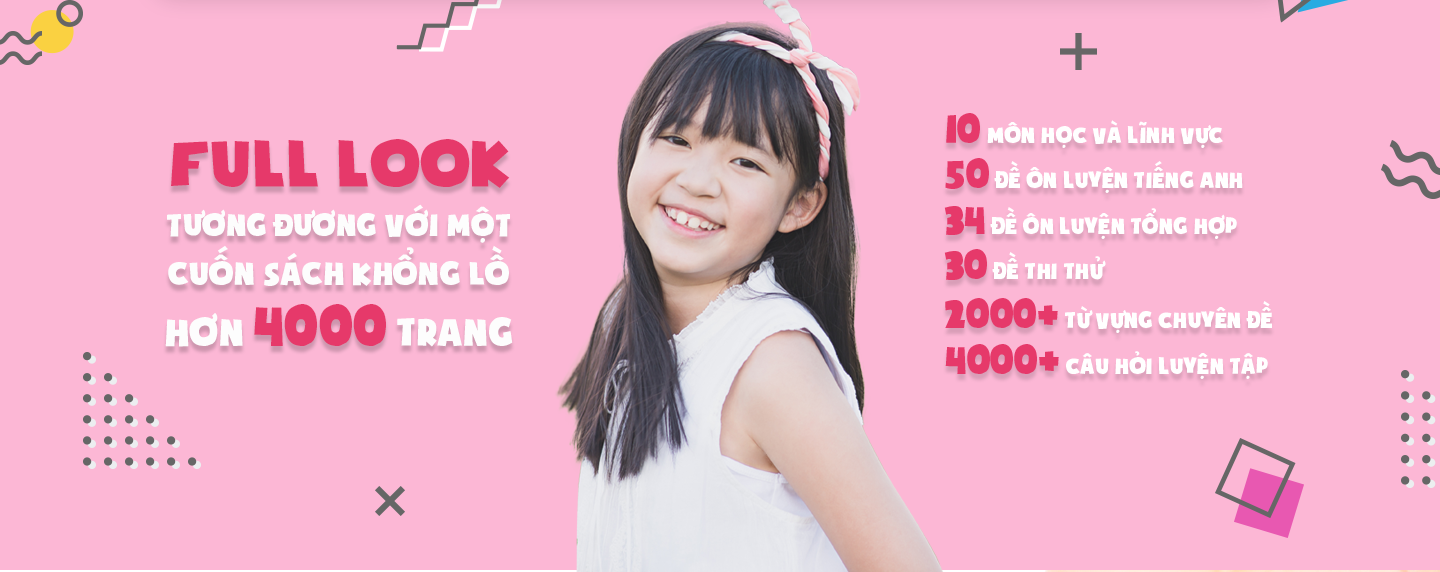
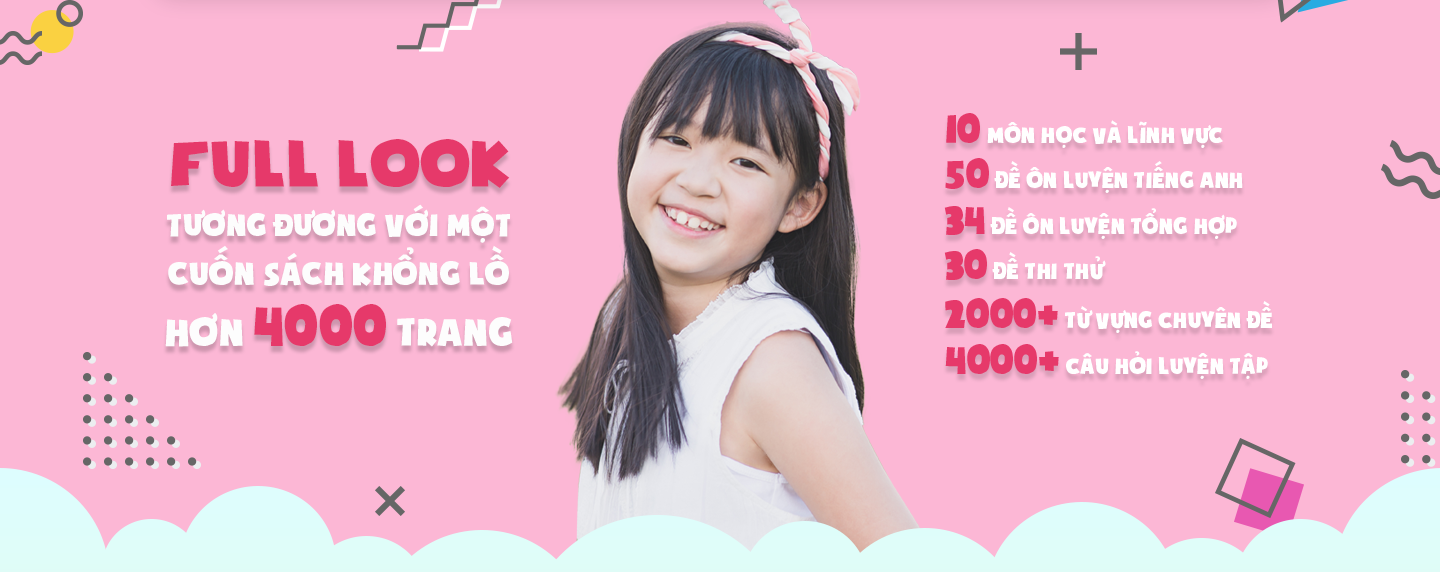
huunv

Changed region(s): [[0.5312, 0.8024, 1.0, 1.0], [0.0, 0.8024, 0.5, 1.0]]

diff --git a/assets/css/style.css b/assets/css/style.css
@@ -315,6 +315,7 @@ input[type=radio], input[type=checkbox]{
 .btmn2{top: 28%; right: 40%;}
 .btdk{bottom: 20%; right: 25.5%;}
 .btdk2{bottom: 15%; right: 10%;}
+.bg-cloud{    background: #e0fcf5;}
 
 @media (min-width: 768px) {
 	.navbar-brand{

diff --git a/common/slider.php b/common/slider.php
@@ -28,9 +28,9 @@
       </div>
       <div rel="#fcb7d5" class="carousel-item">
         <img class="d-block w-100" src="/assets/images/banner.png" alt="Second slide">
-        <div class="absolute btdk d-none d-sm-block"><a class="btn btn-warning" href="/about.php">Đăng kí ngay</a>
+        <div class="absolute btdk d-none d-sm-block"><a class="btn btn-warning" href="/about.php#guide">Đăng kí ngay</a>
         </div>
-        <div class="absolute btdk2 d-block d-sm-none"><a class="btn-xs btn-warning" href="/about.php">Đăng kí ngay</a>
+        <div class="absolute btdk2 d-block d-sm-none"><a class="btn-xs btn-warning" href="/about.php#guide">Đăng kí ngay</a>
         </div>
       </div>
       <div rel="#7bc646" class="carousel-item">
@@ -39,9 +39,9 @@
        <div rel="#73bee9" class="carousel-item relative">
         <img class="d-block w-100" src="/assets/images/slider2.png" alt="Four slide">
 
-        <div class="absolute btmn d-none d-sm-block"><a class="btn btn-danger" href="/about.php">Mua ngay</a>
+        <div class="absolute btmn d-none d-sm-block"><a class="btn btn-danger" href="/about.php#guide">Mua ngay</a>
         </div>
-        <div class="absolute btmn2 d-block d-sm-none"><a class="btn-xs btn-danger" href="/about.php">Mua ngay</a>
+        <div class="absolute btmn2 d-block d-sm-none"><a class="btn-xs btn-danger" href="/about.php#guide">Mua ngay</a>
         </div>
     </div>
     <a class="carousel-control-prev" href="#homeslider" role="button" data-slide="prev">

diff --git a/home/index.php b/home/index.php
@@ -1,3 +1,14 @@
+<div class="full pb-2 bg-cloud text-center">
+	<a href="/news_list.php?id=147" class="btn btn-info">Hướng dẫn sử dụng</a>
+	<a href="/about.php#guide" class="btn btn-danger">Hướng dẫn mua</a>
+	<a href="/document.php" class="btn btn-primary">Kinh nghiệm ôn thi</a>
+	<a href="/gift.php" class="btn btn-success">Giả trí</a>
+	<?php if(isset($_SESSION['userId'])){ ?>
+	<a href="/profile.php" class="btn btn-warning">Lịch sử học tập</a>
+	<?php } else {
+		echo '<button onclick="return alert(\'Đăng nhập để xem lịch sử\');" class="btn btn-warning">Lịch sử học tập</button>';	
+	} ?>
+</div>
 <div id="practice" class="full">
 	<div class="container">
 		<div style="margin-bottom: 15px;" class="text-center fs40 heading">

diff --git a/common/header.php b/common/header.php
@@ -72,7 +72,7 @@
                     <a href="/about.php" data-toggle="dropdown" class="nav-link dropdown-toggle">Về phần mềm</a>
                     <ul class="dropdown-menu">
 						<li style="padding-left: 25px;"><a href="/about.php">Giới thiệu</a></li>
-						<li><a href="/about.php">Hướng dẫn mua</a></li>
+						<li><a href="/about.php#guide">Hướng dẫn mua</a></li>
 						<li><a href="/news_list.php?id=147">Hướng dẫn sử dụng</a></li>
 					</ul>
                 </li>

diff --git a/home/pay.php b/home/pay.php
@@ -40,7 +40,7 @@
 				</div>
 			</div>
 
-			<div class="full bg-light p-3 mb-3">
+			<div id="guide" class="full bg-light p-3 mb-3">
 				<h4 class="text-center t-weight">Hướng dẫn mua sản phẩm Full Look</h4>
 				<h5 class="text-center t-weight">Phần mềm FullLook giá <span class="label label-danger ">600.000 đồng</span> cho 1 năm sử dụng </h5>
 
